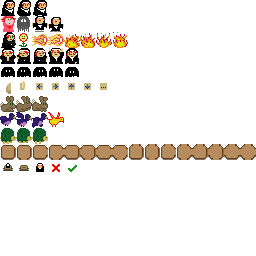
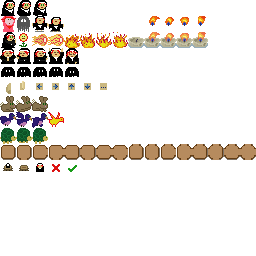
candles

Changed region(s): [[0.5, 0.125, 0.8125, 0.1875], [0.5625, 0.0625, 0.8125, 0.0938]]

diff --git a/src/tool/main.c b/src/tool/main.c
@@ -433,6 +433,52 @@ static int sprite_cmd_groups(struct sr_encoder *dst,const char *src,int srcc,con
   return 0;
 }
 
+/* Unknown sprite command.
+ * We can do generic ones with a numeric opcode, they work exactly the same as map commands then.
+ */
+ 
+static int sprite_cmd_generic(
+  struct sr_encoder *dst,
+  const char *kw,int kwc,
+  const char *arg,int argc,
+  const char *srcpath,int lineno
+) {
+  int argp=0,opcode;
+  if ((sr_int_eval(&opcode,kw,kwc)<2)||(opcode<0)||(opcode>0xff)) {
+    fprintf(stderr,"%s:%d: Unknown sprite command '%.*s'. Add around %s:%d if this is new.\n",srcpath,lineno,kwc,kw,__FILE__,__LINE__);
+    return -2;
+  }
+  if (sr_encode_u8(dst,opcode)<0) return -1;
+  int lenp=dst->c;
+  if ((opcode>=0xe0)&&(opcode<0xf0)) { // explicit length; emit placeholder.
+    if (sr_encode_u8(dst,0)<0) return -1;
+  }
+  while (argp<argc) {
+    const char *token=arg+argp;
+    int tokenc=0;
+    while ((argp<argc)&&((unsigned char)arg[argp++]>0x20)) tokenc++;
+    while ((argp<argc)&&((unsigned char)arg[argp]<=0x20)) argp++;
+    int err=map_arg_compile(dst,opcode,-1,token,tokenc,srcpath,lineno);
+    if (err<0) return err;
+  }
+  int cmdlen=dst->c-lenp;
+  if ((opcode>=0xe0)&&(opcode<0xf0)) {
+    cmdlen--;
+    if (cmdlen>0xff) {
+      fprintf(stderr,"%s:%d: Invalid command length %d\n",srcpath,lineno,cmdlen);
+      return -2;
+    }
+    ((uint8_t*)dst->v)[lenp]=cmdlen;
+  } else {
+    int expect=map_cmdlen(opcode);
+    if (cmdlen!=expect) {
+      fprintf(stderr,"%s:%d: Sprite command 0x%02x expects %d bytes parameter, found %d\n",srcpath,lineno,opcode,expect,cmdlen);
+      return -2;
+    }
+  }
+  return 0;
+}
+
 /* Compile one sprite.
  */
  
@@ -455,11 +501,7 @@ static int digest_sprite(struct sr_encoder *dst,const char *src,int srcc,const c
     else if ((kwc==5)&&!memcmp(kw,"image",5)) err=sprite_cmd_image(dst,line+linep,linec-linep,srcpath,lineno);
     else if ((kwc==6)&&!memcmp(kw,"tileid",6)) err=sprite_cmd_tileid(dst,line+linep,linec-linep,srcpath,lineno);
     else if ((kwc==6)&&!memcmp(kw,"groups",6)) err=sprite_cmd_groups(dst,line+linep,linec-linep,srcpath,lineno);
-    
-    else {
-      fprintf(stderr,"%s:%d: Unknown sprite command '%.*s'. Add around %s:%d if this is new.\n",srcpath,lineno,kwc,kw,__FILE__,__LINE__);
-      return -2;
-    }
+    else err=sprite_cmd_generic(dst,kw,kwc,line+linep,linec-linep,srcpath,lineno);
     if (err<0) {
       if (err!=-2) fprintf(stderr,"%s:%d: Unspecified error processing '%.*s' sprite command.\n",srcpath,lineno,kwc,kw);
       return -2;

diff --git a/src/game/sprite/sprite.h b/src/game/sprite/sprite.h
@@ -26,10 +26,10 @@ struct sprite_type {
   int objlen;
   void (*del)(struct sprite *sprite);
   
-  /* (arg) from the spawn point, and (def) from the resource.
-   * Generic fields from (def), and location, are already applied when this gets called.
+  /* Generic fields from (def), and location, are already applied when this gets called.
+   * I'm not providing a means to pass data via spawn points. Make a separate sprite resource for everything.
    */
-  int (*init)(struct sprite *sprite,const uint8_t *arg,int argc,const uint8_t *def,int defc);
+  int (*init)(struct sprite *sprite,const uint8_t *def,int defc);
   
   void (*update)(struct sprite *sprite,double elapsed);
   
@@ -65,7 +65,6 @@ struct sprite *sprite_spawn_for_map(
 struct sprite *sprite_spawn_with_type(
   double x,double y,
   const struct sprite_type *type,
-  const uint8_t *arg,int argc,
   const uint8_t *def,int defc
 );
 
@@ -121,6 +120,7 @@ extern const struct sprite_type sprite_type_hero;
 extern const struct sprite_type sprite_type_fleshpuppet;
 extern const struct sprite_type sprite_type_fireball;
 extern const struct sprite_type sprite_type_bonfire;
+extern const struct sprite_type sprite_type_candle;
 
 // ids get assigned in this order. Use the same as the ^ declarations above.
 #define FOR_EACH_SPRITE_TYPE \
@@ -128,11 +128,13 @@ extern const struct sprite_type sprite_type_bonfire;
   _(hero) \
   _(fleshpuppet) \
   _(fireball) \
-  _(bonfire)
+  _(bonfire) \
+  _(candle)
 
 const struct sprite_type *sprite_type_by_id(int id);
 
 void sprite_fireball_set_direction(struct sprite *sprite,double dx,double dy);
 void sprite_bonfire_set_ttl(struct sprite *sprite,double ttl);
+int sprite_candle_light(struct sprite *sprite); // 0 if invalid or already lit
 
 #endif

diff --git a/src/game/sprite/types/sprite_candle.c b/src/game/sprite/types/sprite_candle.c
@@ -1,0 +1,53 @@
+#include "game/penance.h"
+
+struct sprite_candle {
+  struct sprite hdr;
+  double animclock;
+  int animframe;
+  uint8_t tileid0;
+  int lit;
+  int candleid;
+};
+
+#define SPRITE ((struct sprite_candle*)sprite)
+
+static int _candle_init(struct sprite *sprite,const uint8_t *def,int defc) {
+  SPRITE->candleid=-1;
+  struct map_command_reader reader;
+  map_command_reader_init_serial(&reader,def,defc);
+  const uint8_t *arg;
+  int argc,opcode;
+  while ((argc=map_command_reader_next(&arg,&opcode,&reader))>=0) {
+    switch (opcode) {
+      case 0x3f: SPRITE->candleid=(arg[0]<<8)|arg[1]; break;
+    }
+  }
+  if ((SPRITE->candleid>=0)&&(SPRITE->candleid<CANDLE_COUNT)) SPRITE->lit=g.candlev[SPRITE->candleid];
+  return 0;
+}
+
+static void _candle_update(struct sprite *sprite,double elapsed) {
+  if ((SPRITE->animclock-=elapsed)<=0.0) {
+    SPRITE->animclock+=0.150;
+    if (++(SPRITE->animframe)>=4) SPRITE->animframe=0;
+    if (!SPRITE->tileid0) SPRITE->tileid0=sprite->tileid;
+    if (SPRITE->lit) sprite->tileid=SPRITE->tileid0+1+SPRITE->animframe;
+    else sprite->tileid=SPRITE->tileid0;
+  }
+}
+
+const struct sprite_type sprite_type_candle={
+  .name="candle",
+  .objlen=sizeof(struct sprite_candle),
+  .init=_candle_init,
+  .update=_candle_update,
+};
+
+int sprite_candle_light(struct sprite *sprite) {
+  if (!sprite||(sprite->type!=&sprite_type_candle)) return 0;
+  if (SPRITE->lit) return 0;
+  SPRITE->lit=1;
+  SPRITE->animclock=0.0;
+  if ((SPRITE->candleid>=0)&&(SPRITE->candleid<CANDLE_COUNT)) g.candlev[SPRITE->candleid]=1;
+  return 1;
+}

diff --git a/src/game/hero/hero_event.c b/src/game/hero/hero_event.c
@@ -139,7 +139,7 @@ static void hero_end_hole(struct sprite *sprite) {
 static void hero_cast_fireball(struct sprite *sprite,double dx) {
   SPRITE->mode=HERO_MODE_FIREBALL;
   SPRITE->spellclock=0.500;
-  struct sprite *fireball=sprite_spawn_with_type(sprite->x+dx,sprite->y,&sprite_type_fireball,0,0,0,0);
+  struct sprite *fireball=sprite_spawn_with_type(sprite->x+dx,sprite->y,&sprite_type_fireball,0,0);
   if (!fireball) return;
   //TODO sound effect
   fireball->imageid=sprite->imageid;
@@ -177,7 +177,7 @@ static void hero_cast_disembody(struct sprite *sprite) {
   //TODO sound effect
   SPRITE->mode=HERO_MODE_GHOST;
   sprite->layer++;
-  struct sprite *fleshpuppet=sprite_spawn_with_type(sprite->x,sprite->y,&sprite_type_fleshpuppet,0,0,0,0);
+  struct sprite *fleshpuppet=sprite_spawn_with_type(sprite->x,sprite->y,&sprite_type_fleshpuppet,0,0);
   if (fleshpuppet) {
     sprite_group_add(GRP(UPDATE),fleshpuppet);
     sprite_group_add(GRP(VISIBLE),fleshpuppet);
@@ -372,7 +372,7 @@ void hero_quantized_motion(struct sprite *sprite,int nx,int ny) {
 void hero_map_changed(struct sprite *sprite) {
   if (SPRITE->mode==HERO_MODE_GHOST) {
     if (g.map->rid==SPRITE->ghost_mapid) {
-      struct sprite *fleshpuppet=sprite_spawn_with_type(SPRITE->ghost_x,SPRITE->ghost_y,&sprite_type_fleshpuppet,0,0,0,0);
+      struct sprite *fleshpuppet=sprite_spawn_with_type(SPRITE->ghost_x,SPRITE->ghost_y,&sprite_type_fleshpuppet,0,0);
       if (fleshpuppet) {
         sprite_group_add(GRP(UPDATE),fleshpuppet);
         sprite_group_add(GRP(VISIBLE),fleshpuppet);

diff --git a/src/game/sprite/types/sprite_fireball.c b/src/game/sprite/types/sprite_fireball.c
@@ -22,6 +22,7 @@ static void _fireball_update(struct sprite *sprite,double elapsed) {
     sprite_kill_later(sprite);
     return;
   }
+  
   // If we cross a tile of physics 3 "flammable", replace it with zero, kill me, and produce a time-limited bonfire.
   // Don't allow burning on the outermost column or row. Physics doesn't read across map gaps, so that would lead to flicker problems
   // where you could walk into a neighbor map, directly into a wall.
@@ -32,7 +33,7 @@ static void _fireball_update(struct sprite *sprite,double elapsed) {
     if (prop==3) {
       g.map->v[y*COLC+x]=0;
       sprite_kill_later(sprite);
-      struct sprite *bonfire=sprite_spawn_with_type(x+0.5,y+0.5,&sprite_type_bonfire,0,0,0,0);
+      struct sprite *bonfire=sprite_spawn_with_type(x+0.5,y+0.5,&sprite_type_bonfire,0,0);
       if (bonfire) {
         bonfire->imageid=sprite->imageid;
         bonfire->tileid=0x24;
@@ -41,6 +42,19 @@ static void _fireball_update(struct sprite *sprite,double elapsed) {
       //TODO sound effect
       return;
     }
+  }
+  
+  // If we touch a candle sprite, light it and stop.
+  int i=GRP(VISIBLE)->spritec;
+  while (i-->0) {
+    struct sprite *candle=GRP(VISIBLE)->spritev[i];
+    if (candle->type!=&sprite_type_candle) continue;
+    double dx=sprite->x-candle->x; if (dx>1.0) continue;
+    double dy=sprite->y-candle->y; if (dy>1.0) continue;
+    if (dx*dx+dy*dy>1.0) continue;
+    if (!sprite_candle_light(candle)) continue;
+    sprite_kill_later(sprite);
+    return;
   }
 }
 

diff --git a/src/game/sprite/sprite.c b/src/game/sprite/sprite.c
@@ -53,14 +53,13 @@ struct sprite *sprite_spawn_for_map(int x,int y,const uint8_t *def,int defc) {
   }
   return sprite_spawn_with_type(
     (double)x+0.5,(double)y+0.5,
-    type,0,0,def,defc
+    type,def,defc
   );
 }
 
 struct sprite *sprite_spawn_with_type(
   double x,double y,
   const struct sprite_type *type,
-  const uint8_t *arg,int argc,
   const uint8_t *def,int defc
 ) {
   struct sprite *sprite=sprite_new(type);
@@ -107,7 +106,7 @@ struct sprite *sprite_spawn_with_type(
     }
   }
   
-  if (type->init&&(type->init(sprite,arg,argc,def,defc)<0)) {
+  if (type->init&&(type->init(sprite,def,defc)<0)) {
     sprite_kill_now(sprite);
     return 0;
   }

diff --git a/src/game/sprite/sprite_type.c b/src/game/sprite/sprite_type.c
@@ -3,13 +3,14 @@
 /* Sprite type by id.
  */
  
+static const struct sprite_type *sprite_typev[]={
+#define _(tag) &sprite_type_##tag,
+FOR_EACH_SPRITE_TYPE
+#undef _
+};
+ 
 const struct sprite_type *sprite_type_by_id(int id) {
-  switch (id) {
-    case 0: return &sprite_type_dummy;
-    case 1: return &sprite_type_hero;
-    case 2: return &sprite_type_fleshpuppet;
-    case 3: return &sprite_type_fireball;
-    case 4: return &sprite_type_bonfire;
-  }
-  return 0;
+  if (id<0) return 0;
+  if (id>=sizeof(sprite_typev)/sizeof(sprite_typev[0])) return 0;
+  return sprite_typev[id];
 }

diff --git a/src/game/sprite/types/sprite_dummy.c b/src/game/sprite/types/sprite_dummy.c
@@ -7,7 +7,7 @@ struct sprite_dummy {
 #define SPRITE ((struct sprite_dummy*)sprite)
 
 //static void _dummy_del(struct sprite *sprite)
-//static int _dummy_init(struct sprite *sprite,const uint8_t *arg,int argc,const uint8_t *def,int defc)
+//static int _dummy_init(struct sprite *sprite,const uint8_t *def,int defc)
 //static void _dummy_update(struct sprite *sprite,double elapsed)
 //static void _dummy_render(struct sprite *sprite,int16_t addx,int16_t addy)
 

diff --git a/src/game/sprite/types/sprite_bonfire.c b/src/game/sprite/types/sprite_bonfire.c
@@ -9,7 +9,7 @@ struct sprite_bonfire {
 
 #define SPRITE ((struct sprite_bonfire*)sprite)
 
-static int _bonfire_init(struct sprite *sprite,const uint8_t *arg,int argc,const uint8_t *def,int defc) {
+static int _bonfire_init(struct sprite *sprite,const uint8_t *def,int defc) {
   if (sprite_group_add(GRP(VISIBLE),sprite)<0) return -1;
   if (sprite_group_add(GRP(UPDATE),sprite)<0) return -1;
   if (sprite_group_add(GRP(HAZARD),sprite)<0) return -1;

diff --git a/src/game/game.c b/src/game/game.c
@@ -24,7 +24,7 @@ static int penance_load_map_object(struct map *map) {
           if (GRP(HERO)->spritec) break;
           double x=(double)arg[0]+0.5;
           double y=(double)arg[1]+0.5;
-          struct sprite *sprite=sprite_spawn_with_type(x,y,&sprite_type_hero,0,0,0,0);
+          struct sprite *sprite=sprite_spawn_with_type(x,y,&sprite_type_hero,0,0);
           if (!sprite) return -1;
         } break;
       case 0x23: { // song

diff --git a/src/game/penance.h b/src/game/penance.h
@@ -14,6 +14,8 @@
 #define DIR_E 0x08
 #define DIR_S 0x02
 
+#define CANDLE_COUNT 3
+
 // Spells are cast into a circular buffer this long.
 #define SPELL_LIMIT 8
 
@@ -57,6 +59,7 @@ extern struct globals {
   int mapid_load_soon;
   struct menu *menuv[MENU_STACK_LIMIT];
   int menuc;
+  uint8_t candlev[CANDLE_COUNT]; // Not going to generalize global state, there's so little of it.
 } g;
 
 int penance_load_map(int mapid);

diff --git a/src/game/hero/sprite_hero.c b/src/game/hero/sprite_hero.c
@@ -11,7 +11,7 @@ static void _hero_del(struct sprite *sprite) {
  * We do it all here.
  */
  
-static int _hero_init(struct sprite *sprite,const uint8_t *arg,int argc,const uint8_t *def,int defc) {
+static int _hero_init(struct sprite *sprite,const uint8_t *def,int defc) {
   sprite->imageid=RID_image_hero;
   sprite->tileid=0x00;
   sprite->xform=0;
